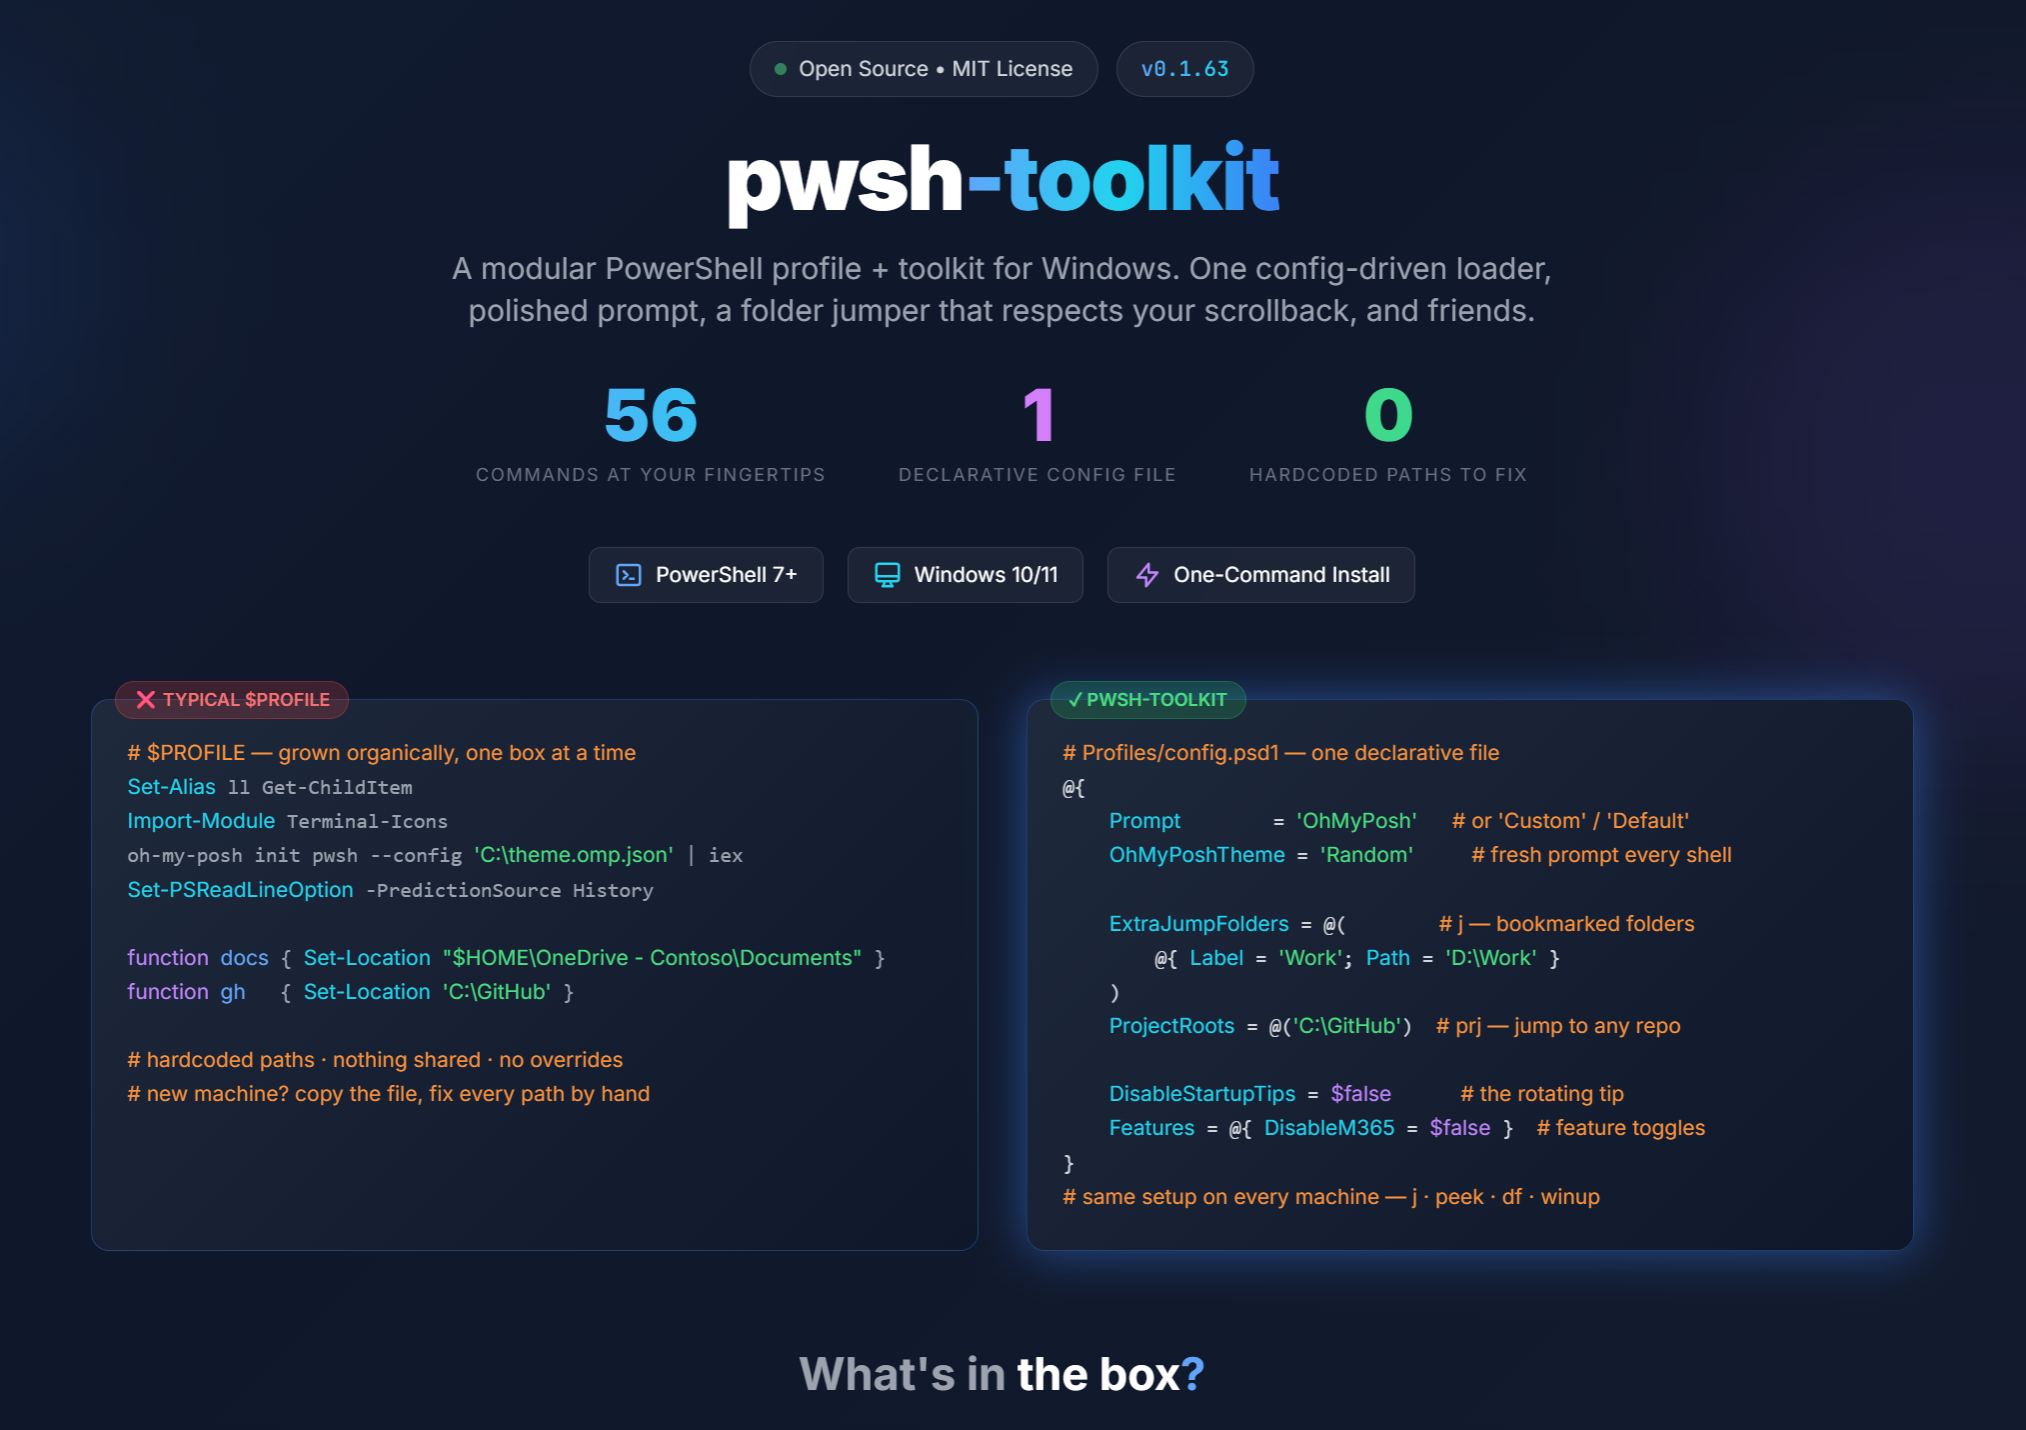
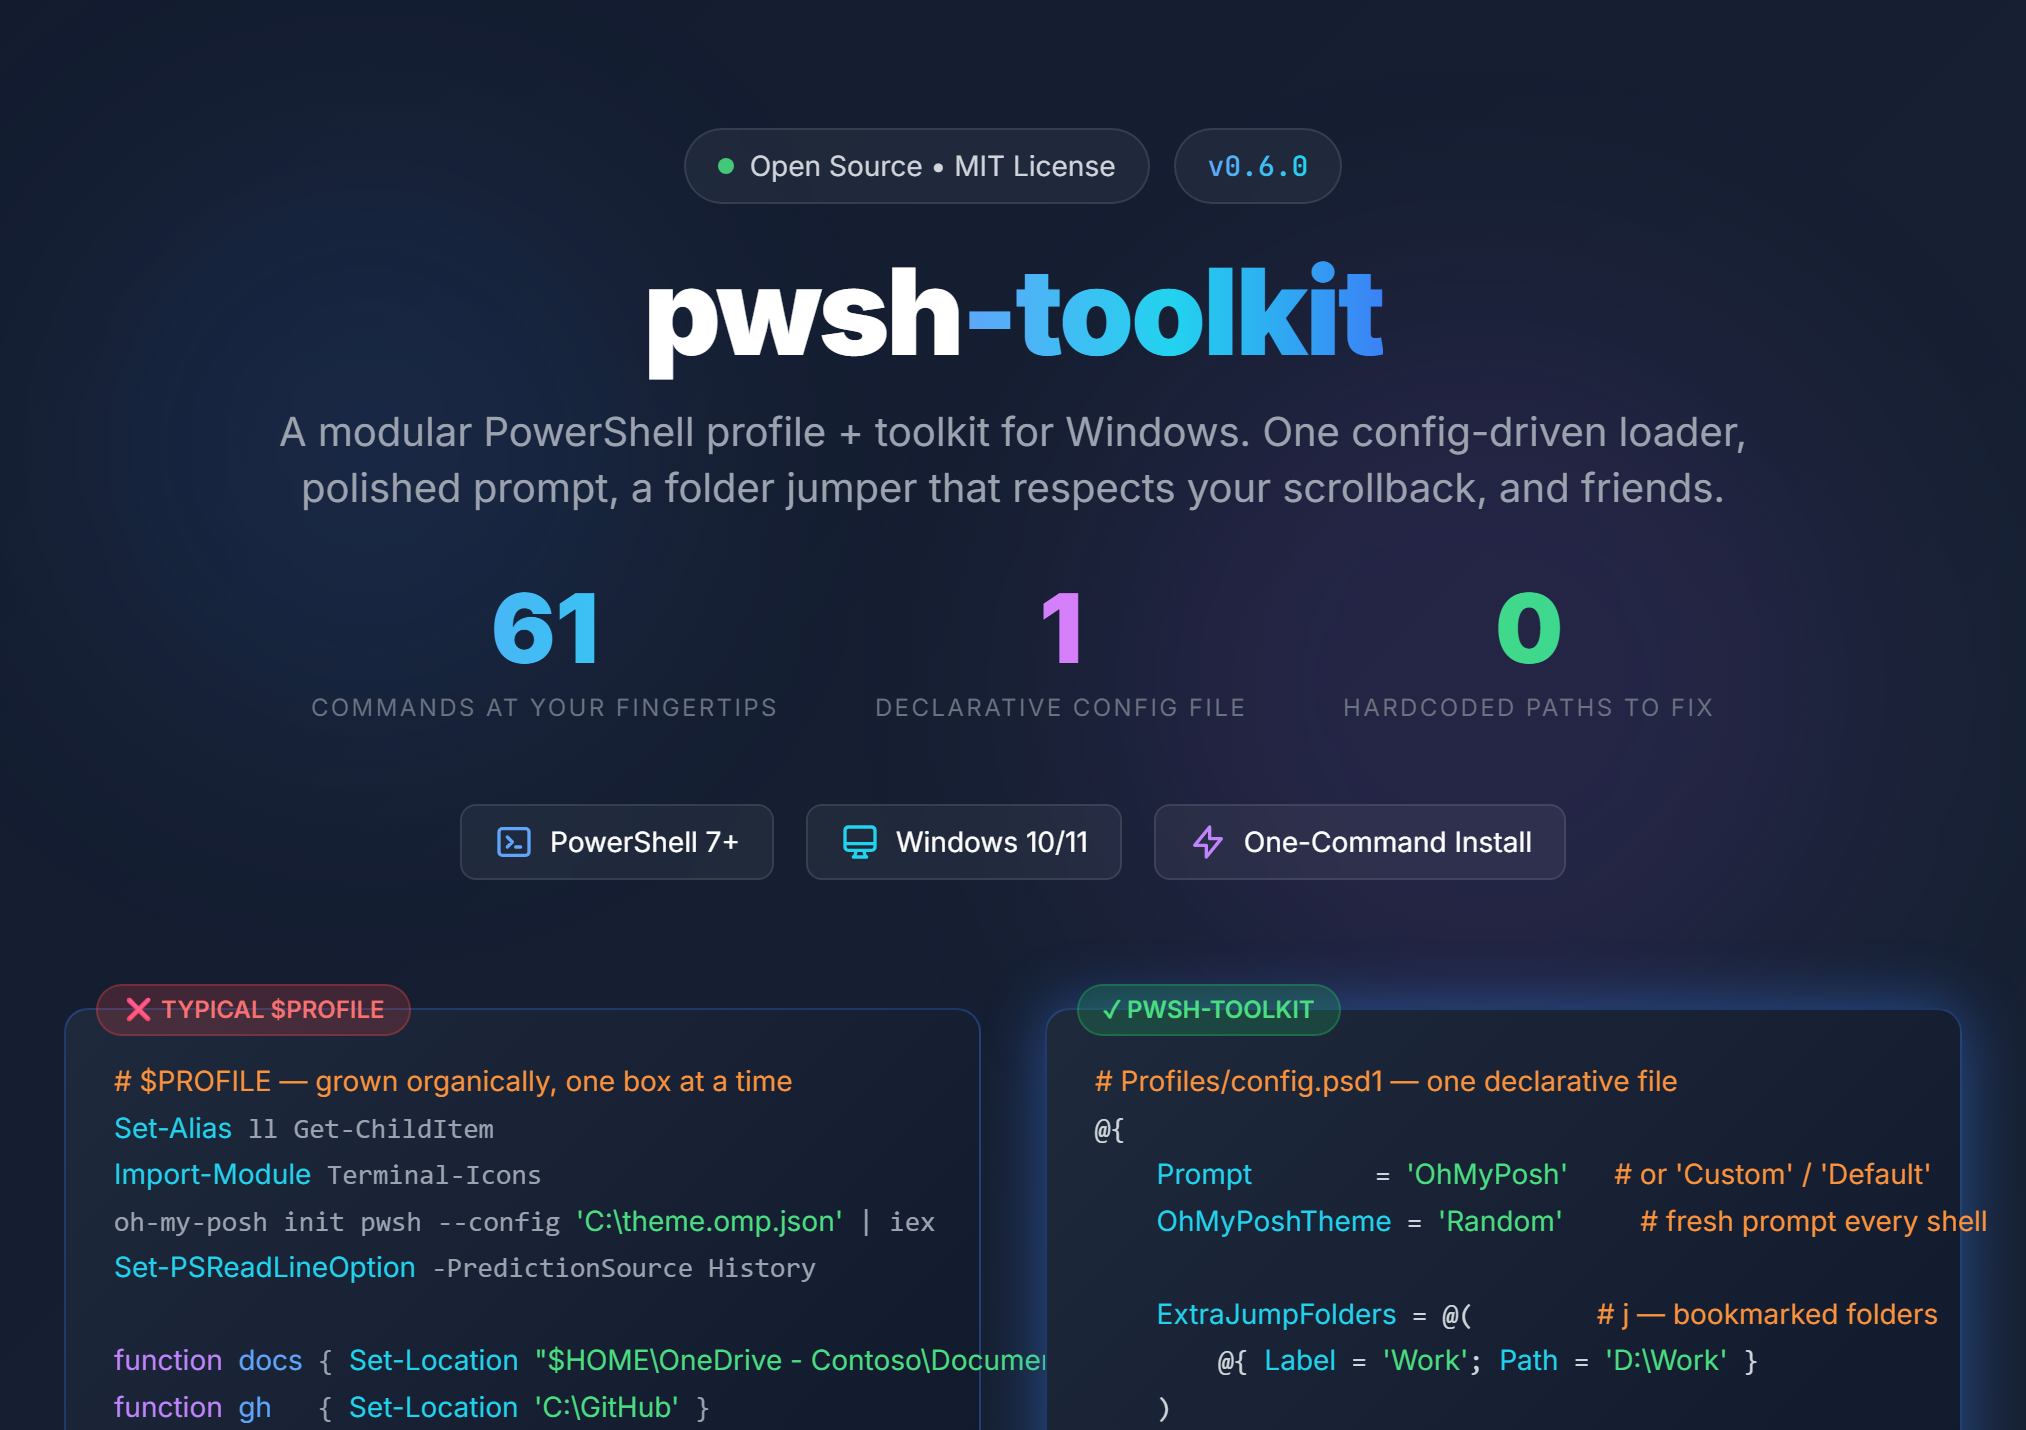
Release 0.6.0
Promote the Unreleased changelog section to 0.6.0 (2026-07-21): `cb`, the
curated clipboard snippet stash, and Get-IntuneOverview -AsDashboard — the
Intune cockpit, hardened by a full code review before shipping — plus the
Connect-Tenant false-success fix. Close the shipped-idea loop: IDEAS §4/§5
flip to Shipped, the poster count catches up with reality (58 shown, 61
actual per Get-ToolkitCommand) with the poster PNG regenerated to match,
and the README alt text syncs (it still said 56).

diff --git a/docs/poster.html b/docs/poster.html
@@ -86,7 +86,7 @@
                         <span class="text-sm text-gray-300">Open Source • MIT License</span>
                     </div>
                     <div class="inline-flex items-center gap-2 px-4 py-2 rounded-full glass">
-                        <span class="text-sm mono font-semibold bg-gradient-to-r from-blue-400 to-cyan-400 bg-clip-text text-transparent">v0.5.0</span>
+                        <span class="text-sm mono font-semibold bg-gradient-to-r from-blue-400 to-cyan-400 bg-clip-text text-transparent">v0.6.0</span>
                     </div>
                 </div>
 
@@ -101,7 +101,7 @@
 
                 <div class="flex flex-wrap items-center justify-center gap-8 sm:gap-12 mb-10">
                     <div class="text-center">
-                        <div class="text-5xl font-black bg-gradient-to-r from-blue-400 to-cyan-400 bg-clip-text text-transparent leading-none">58</div>
+                        <div class="text-5xl font-black bg-gradient-to-r from-blue-400 to-cyan-400 bg-clip-text text-transparent leading-none">61</div>
                         <div class="text-xs text-gray-500 uppercase tracking-widest mt-2">commands at your fingertips</div>
                     </div>
                     <div class="text-center">
@@ -557,7 +557,7 @@ oh-my-posh init pwsh --config <span class="highlight-green">'C:\theme.omp.json'<
                 </div>
 
                 <div class="mt-8 text-gray-500 text-sm">
-                    Created by <span class="text-gray-300">Haakon Wibe</span> • MIT licensed • <span class="mono">v0.5.0</span>
+                    Created by <span class="text-gray-300">Haakon Wibe</span> • MIT licensed • <span class="mono">v0.6.0</span>
                 </div>
             </div>
 

diff --git a/IDEAS.md b/IDEAS.md
@@ -107,7 +107,7 @@ examples), keep titles under 70 chars, write "why" not "what".
 
 ---
 
-## 4. Clipboard snippet stash (`cb`) — 🔨 Building
+## 4. Clipboard snippet stash (`cb`) — ✅ Shipped 2026-07-19
 
 Built in `Profiles/Common/Clipboard.ps1`. Reframed from "clipboard history" to a
 **curated snippet stash** — the sharper tool, and the one Win+V can't be. A pure
@@ -191,7 +191,7 @@ that the toolkit already computes genuinely valuable state (`Get-TenantOverview`
 `Get-IntuneOverview`, `Get-AzureResourceCosts`) and then throws it at a terminal
 where it scrolls away. These bets reuse that data differently.
 
-## 5. Cockpit — a visual dashboard from data the toolkit already gathers — 🔨 Building
+## 5. Cockpit — a visual dashboard from data the toolkit already gathers — ✅ Shipped 2026-07-21 (static snapshot; live/hosted still open)
 
 **What:** Render the overview commands' output as a single at-a-glance visual
 dashboard instead of scrolling green text — compliance donut, stale devices

diff --git a/CHANGELOG.md b/CHANGELOG.md
@@ -7,7 +7,7 @@ All notable changes to this project are documented here. The format follows
 > The detailed pre-release history (0.1.0–0.1.62) was condensed into the summary
 > below when the repository was squashed for its public release.
 
-## [Unreleased]
+## [0.6.0] - 2026-07-21
 
 ### Added
 

diff --git a/README.md b/README.md
@@ -2,7 +2,7 @@
 
 <p align="center">
   <a href="https://haakonwibe.github.io/pwsh-toolkit/poster.html">
-    <img src="docs/screenshots/poster.png" alt="pwsh-toolkit at-a-glance poster — 56 commands wired up through one declarative config: folder jumper, archive peek, JSON viewer, disk-free overview, winget picker, and more" width="900">
+    <img src="docs/screenshots/poster.png" alt="pwsh-toolkit at-a-glance poster — 61 commands wired up through one declarative config: folder jumper, archive peek, JSON viewer, disk-free overview, winget picker, and more" width="900">
   </a>
 </p>
 <p align="center">